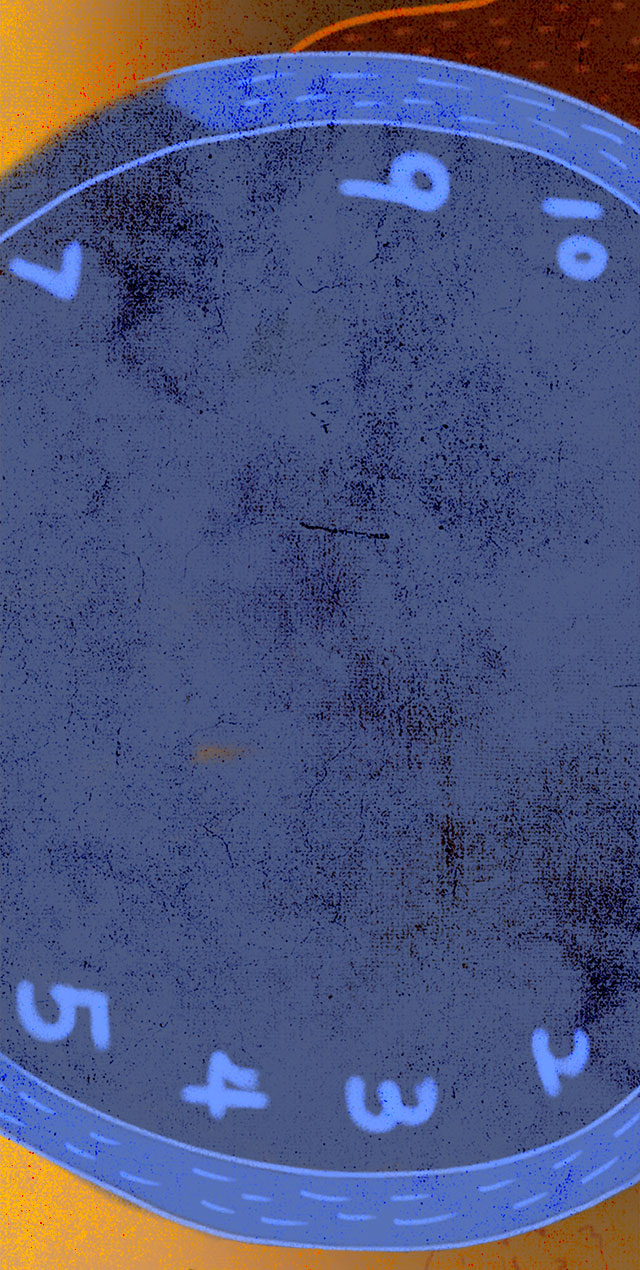
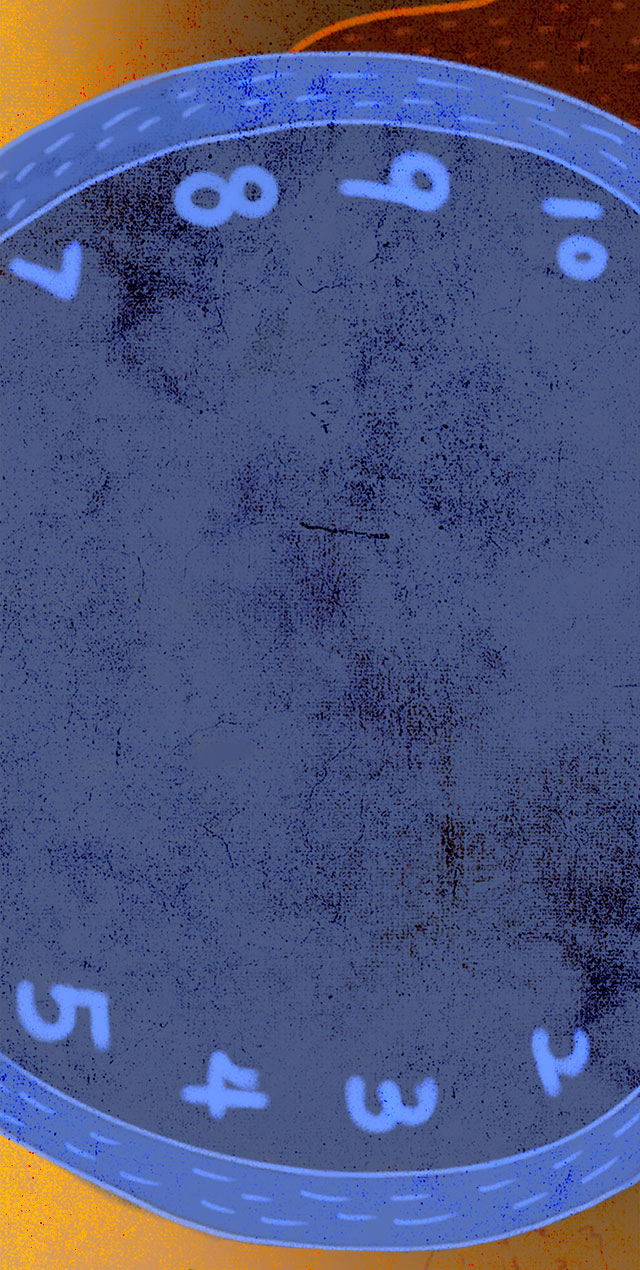
clock animation

Changed region(s): [[0.0, 0.0307, 0.4375, 0.1843], [0.3125, 0.5835, 0.375, 0.6142]]

diff --git a/js/main.js b/js/main.js
@@ -165,7 +165,7 @@ SOLWAY.Main = (function() {
     SOLWAY.Scroller.init(container);
 
     // scrollTo
-    scroller.scrollTo(0, stagePosition(1));
+    scroller.scrollTo(0, stagePosition(3));
 
     // -- add scene
     // container.addChild(scene1, scene2, scene3, scene4, scene5, scene6, scene7, scene8, scene9);
@@ -409,20 +409,38 @@ SOLWAY.Scene[3] = (function() {
       alpha: 0
     });
     factory = createSprite("scene-4-factory.png", { x: 8, y: 256 });
-    man_left = createSprite("scene-4-man-left.png", { x: 0, y: 61 });
+    man_left = createSprite("scene-4-man-left.png", { x: 0, y: 61, alpha:0 });
     man_middle = createSprite("scene-4-man-middle.png", {
       x: 0,
       y: 253,
-      interactive: true
+      interactive: true, alpha:0
     });
-    man_right = createSprite("scene-4-man-right.png", { x: 0, y: 408 });
-    men_1 = createSprite("scene-4-men-1.png", { x: 22, y: 579 });
-    men_2 = createSprite("scene-4-men-2.png", { x: 0, y: 794 });
-    text_1 = createSprite("text-4-1.png", { x: 473, y: 531 });
-    text_2 = createSprite("text-4-2.png", { x: 372, y: 0 });
-    text_3 = createSprite("text-4-3.png", { x: 388, y: 288 });
-    text_4 = createSprite("text-4-4.png", { x: 200, y: 549 });
-    hint = createHintContainer({ x: 137, y: 205 });
+    man_right = createSprite("scene-4-man-right.png", { x: 0, y: 408, alpha:0 });
+    men_1 = createSprite("scene-4-men-1.png", { x: 22, y: 579, alpha:0 });
+    men_2 = createSprite("scene-4-men-2.png", { x: 0, y: 794, alpha:0 });
+    text_1 = createSprite("text-4-1.png", { x: 473, y: 531, alpha:0 });
+    text_2 = createSprite("text-4-2.png", { x: 372, y: 0, alpha:0 });
+    text_3 = createSprite("text-4-3.png", { x: 388, y: 288, alpha:0 });
+    text_4 = createSprite("text-4-4.png", { x: 200, y: 549, alpha:0 });
+    hint = createHintContainer({ x: 137, y: 205, alpha:0 });
+
+    // reset state
+    text_1.x -=10;
+    text_2.x -=10;
+    text_3.x -=10;
+    text_4.x -=10;
+    man_left.y -=10;
+    man_middle.y -=10;
+    man_right.y -=10;
+    clock_hour.x += 230;
+    clock_hour.y += 41;
+    clock_hour.pivot.set(230, 41);
+    clock_minute.x += 47;
+    clock_minute.y += 346;
+    clock_minute.pivot.set(47, 346);
+    // 早九晚五
+    clock_hour.rotation = 138 * Math.PI / 180;
+    clock_minute.rotation = 55 * Math.PI / 180;
 
     // add sprite to container
     // man.addChild(body, hand, drop)
@@ -453,6 +471,53 @@ SOLWAY.Scene[3] = (function() {
 
   function anim() {}
 
+  function customAnim() {
+    var tl = new TimelineLite();
+    tl.to(clock_hour, 5, {
+      rotation: 240 * Math.PI / 180 + 120 * Math.PI / 180,
+      ease: Linear.easeNone
+    });
+    tl.to(text_1, .2, {
+      x: '+=20',
+      alpha: 1
+    })
+    tl.to(clock_minute, 5, {
+      rotation: 360 * 8 * Math.PI / 180 + 55 * Math.PI / 180,
+      ease: Linear.easeNone
+    }, "-=5");
+    tl.to(door_closed, .2, { alpha: 0 });
+    tl.to(door_opened, .2, { alpha: 1 });
+    tl.to(men_2, .2, { alpha: 1 });
+    tl.to(men_1, .2, { alpha: 1 });
+    tl.to(man_left, .2, {
+      y: '+=10',
+      alpha: 1
+    })
+    tl.to(text_2, .2, {
+      x: '+=20',
+      alpha: 1
+    })
+    tl.to(man_middle, .2, {
+      y: '+=10',
+      alpha: 1
+    })
+    tl.to(text_3, .2, {
+      x: '+=20',
+      alpha: 1
+    })
+    tl.to(man_right, .2, {
+      y: '+=10',
+      alpha: 1
+    })
+    tl.to(text_4, .2, {
+      x: '+=20',
+      alpha: 1
+    })
+    tl.to(hint, .2, {
+      alpha: 1
+    })
+  }
+
   function bindEvents() {
     man_middle.on("pointertap", function() {
       showVideo("sad");
@@ -461,7 +526,8 @@ SOLWAY.Scene[3] = (function() {
 
   return {
     init: init,
-    anim: anim
+    anim: anim,
+    customAnim: customAnim
   };
 })();
 
@@ -883,6 +949,11 @@ SOLWAY.Scroller = (function(container) {
           }
         }
         // 定制入场
+        if (top > stagePosition(3) - 1040 + 600) {
+          fireOnce("scene3_custom", function() {
+            SOLWAY.Scene[3].customAnim();
+          });
+        }
         if (top > stagePosition(6) - 1040 + 500) {
           fireOnce("scene6_custom", function() {
             SOLWAY.Scene[6].customAnim();
@@ -1088,7 +1159,7 @@ $(function() {
     method: 'get',
     success: function(res) {
       wx.config({
-        debug: true,
+        debug: false,
         appId: res.appId,
         timestamp: res.timestamp,
         nonceStr: res.nonceStr,
